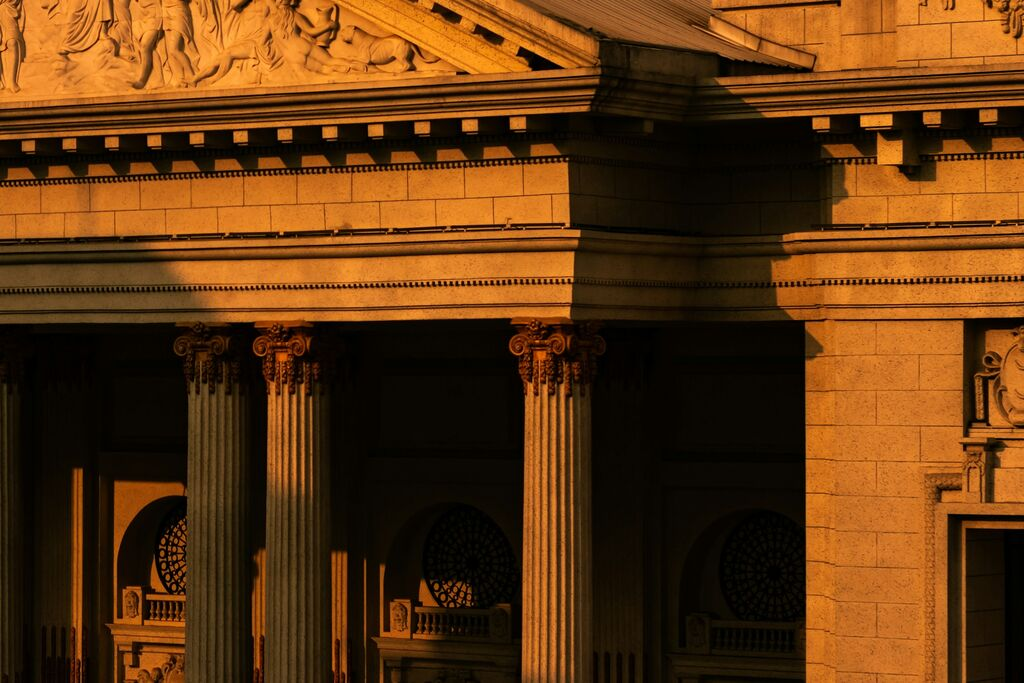
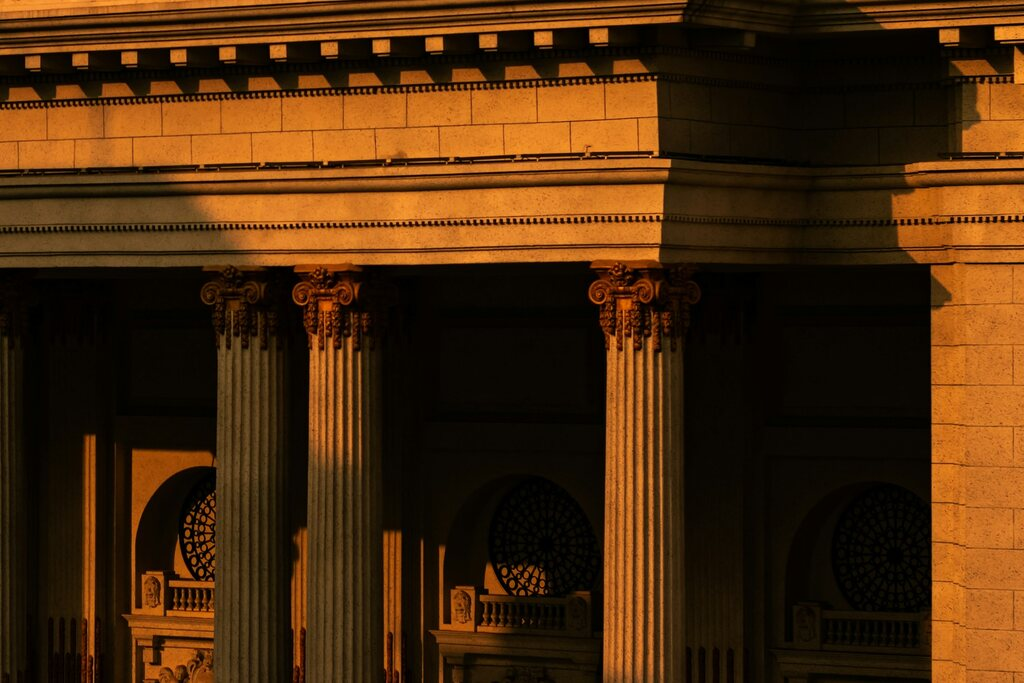
fix(eden): clearer industry photos, press row under the work, lighter band
Digital Assets is now a BTCUSD trading chart (Nick Chong, Unsplash License),
cropped clear of the dated 2020 price; Financial Services re-cut below the
sliced frieze; Frontier Technology brightened and cut at 3:2. The press logo
row moves from the testimonials band to the foot of Selected work. Contact
band overlay 5 points lighter (worst text contrast still 6:1). Homepage team
stays off, confirmed by Joe.

Claude-Session: https://claude.ai/code/session_01AVuXZ5kQdp4DsNtLwqtREc

diff --git a/src/pages/home.js b/src/pages/home.js
@@ -57,15 +57,16 @@ const PRESS_HEIGHTS = {
 
 // Stock photos, all in color and graded to one warm tone. Financial Services:
 // "Golden hour illuminates classical architecture with columns" by Nhan Hoang
-// (https://unsplash.com/photos/aKioE8ayPZs); Digital Assets: "Contemporary
-// building facade reflecting golden light at sunset" by Vincent Y
-// (https://unsplash.com/photos/-Cr-DYZoWvk); both Unsplash License, free for
-// commercial use. Frontier Technology: NASA ISS photo iss075e0099858 (public
-// domain, Wikimedia Commons); contact band: "Sunset in New York City" by
-// Joseph Barrientos (CC0, Wikimedia Commons).
+// (https://unsplash.com/photos/aKioE8ayPZs), cut below the sculpted frieze;
+// Digital Assets: "Screen showing bitcoin trading chart" by Nick Chong
+// (https://unsplash.com/photos/N__BnvQ_w18), cut to the candles and the
+// BTCUSD tag so the dated 2020 price stays out of frame; both Unsplash
+// License, free for commercial use. Frontier Technology: NASA ISS photo
+// iss075e0099858 (public domain, Wikimedia Commons), brightened; contact band:
+// "Sunset in New York City" by Joseph Barrientos (CC0, Wikimedia Commons).
 const INDUSTRY_IMAGES = {
-  'Financial Services': { base: 'industry-financial-services', alt: 'Classical columns and a carved frieze lit by golden evening sun' },
-  'Digital Assets': { base: 'industry-digital-assets', alt: 'Glass bands of a modern cantilevered building reflecting sunset light' },
+  'Financial Services': { base: 'industry-financial-services', alt: 'Classical columns under a stone cornice, lit by golden evening sun' },
+  'Digital Assets': { base: 'industry-digital-assets', alt: 'A bitcoin-to-dollar candlestick chart on a trading screen' },
   'Frontier Technology': { base: 'industry-frontier-technology', alt: 'City lights across the Midwest at night, seen from the International Space Station' },
 };
 
@@ -211,6 +212,13 @@ function buildWork() {
   `;
   }).join('');
 
+  // The press row closes the section: the case results, then where clients ran.
+  const press = PRESS_PICKS
+    .map(name => mediaLogos.find(l => l.name === name))
+    .filter(Boolean)
+    .map(l => `<li class="press__item">${inkLogo(l, PRESS_HEIGHTS[l.name] || 20)}</li>`)
+    .join('');
+
   return `
     <section class="work" aria-labelledby="work-title">
       <div class="wrap">
@@ -219,6 +227,10 @@ function buildWork() {
           ${textLink('/results', 'View all work')}
         </div>
         <ul class="work__grid">${cards}</ul>
+        <div class="press">
+          <h3 class="t-label press__label">${PRESS_LABEL}</h3>
+          <ul class="press__list">${press}</ul>
+        </div>
       </div>
     </section>
   `;
@@ -235,21 +247,11 @@ function buildTestimonials() {
     </figure>
   `).join('');
 
-  const press = PRESS_PICKS
-    .map(name => mediaLogos.find(l => l.name === name))
-    .filter(Boolean)
-    .map(l => `<li class="press__item">${inkLogo(l, PRESS_HEIGHTS[l.name] || 20)}</li>`)
-    .join('');
-
   return `
     <section class="quotes" aria-labelledby="quotes-title">
       <div class="wrap">
         <h2 id="quotes-title" class="visually-hidden">What clients say</h2>
         <div class="quotes__grid">${quotes}</div>
-        <div class="press">
-          <h2 class="t-label press__label">${PRESS_LABEL}</h2>
-          <ul class="press__list">${press}</ul>
-        </div>
       </div>
     </section>
   `;

diff --git a/data/site-content.js b/data/site-content.js
@@ -66,8 +66,9 @@ export const edenLogoSvg = `<svg xmlns="http://www.w3.org/2000/svg" width="curre
 // Copy from Eden's "Website Flow (October 2026)" doc, verbatim. The homepage
 // builders switch to these exports in the design pass. Testimonials and
 // outlet logos stay on the homepage (Alkida, 2026-10-20). The homepage team
-// section is off for Preview 2 at Joe's direction (2026-10-20 evening), though
-// Alkida asked to keep it the same day; the team stays on the About page. The manifesto section comes off the homepage ("Manifesto
+// section is off at Joe's direction (2026-10-20 evening, confirmed 2026-10-21
+// "for now"), though Alkida asked to keep it; Eden is told when the preview
+// goes out. The team stays on the About page. The manifesto section comes off the homepage ("Manifesto
 // can go for now", Ebony, 2026-10-20), but keep missionContent so it can
 // come back. Other older exports nothing uses after the switch (heroContent, ...)
 // get removed then.

diff --git a/src/styles/look-2026.css b/src/styles/look-2026.css
@@ -21,7 +21,7 @@
   --on-dark-muted: rgba(244, 242, 236, 0.74);
   --on-dark-rule: rgba(244, 242, 236, 0.5);
   --band-bg: #1A211D;
-  --scrim: linear-gradient(90deg, rgba(14, 19, 16, 0.86) 0%, rgba(14, 19, 16, 0.62) 50%, rgba(14, 19, 16, 0.48) 100%);
+  --scrim: linear-gradient(90deg, rgba(14, 19, 16, 0.81) 0%, rgba(14, 19, 16, 0.57) 50%, rgba(14, 19, 16, 0.43) 100%);
   --photo-grade: saturate(0.82) sepia(0.06);
 
   --font-display: 'Newsreader', 'Iowan Old Style', 'Times New Roman', serif;
@@ -809,6 +809,6 @@ html:has(> body.look-2026) {
    strong across it. */
 @media (max-width: 640px) {
   .look-2026 .band {
-    --scrim: linear-gradient(180deg, rgba(14, 19, 16, 0.84) 0%, rgba(14, 19, 16, 0.72) 100%);
+    --scrim: linear-gradient(180deg, rgba(14, 19, 16, 0.79) 0%, rgba(14, 19, 16, 0.67) 100%);
   }
 }

diff --git a/DESIGN.md b/DESIGN.md
@@ -138,7 +138,7 @@ Two families, two weights each, loaded from Google Fonts.
 - **Hero:** two halves inside the container, on the 12-column grid: text in columns 1-6, vertically centered; one portrait photograph in columns 7-12, framed by the same margins as the nav so nothing runs off the page edge. The hero fills the first screen (`100svh` minus the nav, between 600px and 860px). Below 900px it stacks: text first, then the photo at 4:3 (1:1 on phones). On short laptop screens (under 780px tall) the headline and spacing shrink so the buttons stay in the first screen. The photo keeps its subject in view with `object-position` set per image. The frame takes Ebony's hero video as is when it arrives.
 - **Grid:** 12 columns on desktop. Statement sections run headline on the left (7 columns) and supporting text on the right (4 columns, offset 1). Three-up rows (pillars, case studies, industries) use equal columns divided by hairlines.
 - **Breakpoints:** 640px, 900px, 1200px. Rows choose their own tablet layout (three-up rows can go to two plus one, logo grids to 3 then 2 columns); everything is one column below 640px.
-- **Images:** square corners, fixed aspect ratios so nothing shifts while loading. Case study images are 16:9 and industry images 3:2. Every photo file is at least as wide as its largest retina display size (about 2x the CSS width), so nothing is upscaled into blur: take the largest original available, never a small crop of a small file. Industry photos are warm color architecture (golden columns, a modern glass facade, the Earth at night), never grey stone that reads as black and white.
+- **Images:** square corners, fixed aspect ratios so nothing shifts while loading. Case study images are 16:9 and industry images 3:2. Every photo file is at least as wide as its largest retina display size (about 2x the CSS width), so nothing is upscaled into blur: take the largest original available, never a small crop of a small file. Each industry photo has to say its industry at a glance (Joe, 2026-10-21: a building "doesn't make any sense with digital assets"): golden columns for Financial Services, a BTCUSD candlestick chart for Digital Assets, the Earth's city lights from orbit for Frontier Technology. Crops are complete compositions (no sculpture sliced at the edge), dark photos are brightened until their subject reads, and nothing shows a dated price or a third-party app brand. Never grey stone that reads as black and white.
 - **Anchors:** `scroll-margin-top: 96px` so the fixed nav never covers a heading.
 
 ## Elevation & Depth
@@ -162,15 +162,15 @@ Flat. Depth comes from photography, paper tone shifts and hairlines. No shadows,
 - **Button sizes:** 48px tall with 13px 22px padding everywhere, except the nav button, which is a compact 44px.
 - **Hero:** the doc's eyebrow as a label above the headline, the headline, the paragraph, two buttons. Nothing else, and no text on the photo. Eden's tagline is the label that opens the proof band right under it, so visitors see who Eden serves within the first scroll.
 - **Proof band:** Eden's tagline as its label, then three figures in a row divided by vertical hairlines, each with a label under it, then a hairline and one strip of the ten client logos (Ebony on the Oct 9 call: the numbers "with a scrolling logo strip of companies beneath"). On phones the figures become rows: number left, label right.
-- **One logo row per place, never two in a row.** The client strip lives in the proof band; the press row lives at the foot of the testimonials band. Joe, 2026-10-20: back-to-back press and client rows read as chaotic.
+- **One logo row per place, never two in a row.** The client strip lives in the proof band; the press row closes the Selected work section, under the case cards (Joe, 2026-10-21: outlets back up the case results). Joe, 2026-10-20: back-to-back press and client rows read as chaotic.
 - **Client strip:** one line that scrolls slowly (60s per loop), edges faded into the band, paused on hover and by a small pause/play icon button beside the label (moving content needs a pause control; its label stays "Pause the logo strip" with `aria-pressed`). Logos aren't links while they move. Reduced motion: the strip stands still in two rows of five (two columns on phones).
-- **Press row:** the eight best-known outlets in one still row spread across the content width, labelled "Where our clients appear", under the quotes. Two lines of four below 1100px, two left-aligned columns on phones. Heights tuned so every mark carries the same weight. All of Eden's outlet logos stay in the data file.
+- **Press row:** the eight best-known outlets in one still row spread across the content width, labelled "Where our clients appear", under the case cards behind a hairline. Two lines of four below 1100px, two left-aligned columns on phones. Heights tuned so every mark carries the same weight. All of Eden's outlet logos stay in the data file.
 - **Logos:** each logo is drawn in logo-ink through a CSS mask, with its proportions from the data files and a height tuned by eye so heavy and light marks carry the same weight.
 - **Three-up rows** (pillars, case studies, industries) share one 3-column grid with a 64px gap (32px under 1100px), so their columns line up down the page. Text rows (pillars) get a hairline above each column; image rows don't need one, and nothing gets vertical dividers.
 - **Pillars and industries:** small numeral or photo, serif title, short sans list.
 - **Case study cards:** image (16:9, cropped inside any broadcast frame with every person whole, in color with the shared `--photo-grade`), client label, card-size serif title, three figures as rows (figure left, label right, hairline between rows) so every label sits on one line, "View case study". No card box. The whole card is the link; its title underline appears on hover only. The rows of the three cards line up (CSS subgrid).
 - **Quotes:** Newsreader 300 at the quote size, opening mark hung outside the text edge, name and title in Geist below a short hairline. No quote-mark ornaments larger than the text.
-- **Team:** on the About page. Off the homepage at Joe's direction (2026-10-20 evening), though Alkida asked to keep it that day; it comes back as a three-up row of color portraits if Eden still wants it. When About moves to this look: 4:5 portraits in one color grade, bios in a native dialog with focus kept inside it and returned to the opener (the styles were at commit `5eff1f6`). The mobile menu follows the same focus rules.
+- **Team:** on the About page. Off the homepage at Joe's direction (2026-10-20, confirmed 2026-10-21 "for now"), though Alkida asked to keep it that day; Eden is told with the preview; it comes back as a three-up row of color portraits if Eden still wants it. When About moves to this look: 4:5 portraits in one color grade, bios in a native dialog with focus kept inside it and returned to the opener (the styles were at commit `5eff1f6`). The mobile menu follows the same focus rules.
 - **Contact band:** a dark, warm-graded skyline photograph with a flat dark scrim. Columns 1-5: headline, body, the bare email address as a link (no "Or email" lead-in), and the word list in one line under a hairline (hidden on phones). Columns 7-12: the form on a flat paper panel, which takes the place of the doc's "Talk to Eden" button. The band carries id `contact`, so every "Talk to Eden" lands on headline and form together. Stacked below 900px. Check text contrast against the scrimmed photo at every crop, including the translucent on-dark text. Inside the panel the normal accent focus ring applies.
 - **Form:** labels above fields; name and email side by side, then company and the message across the full width; 52px fields with a 1px control border; accent focus ring; the submit button carries the arrow; errors in text (not color alone). The form section inside the band has id `contact-form`.
 
